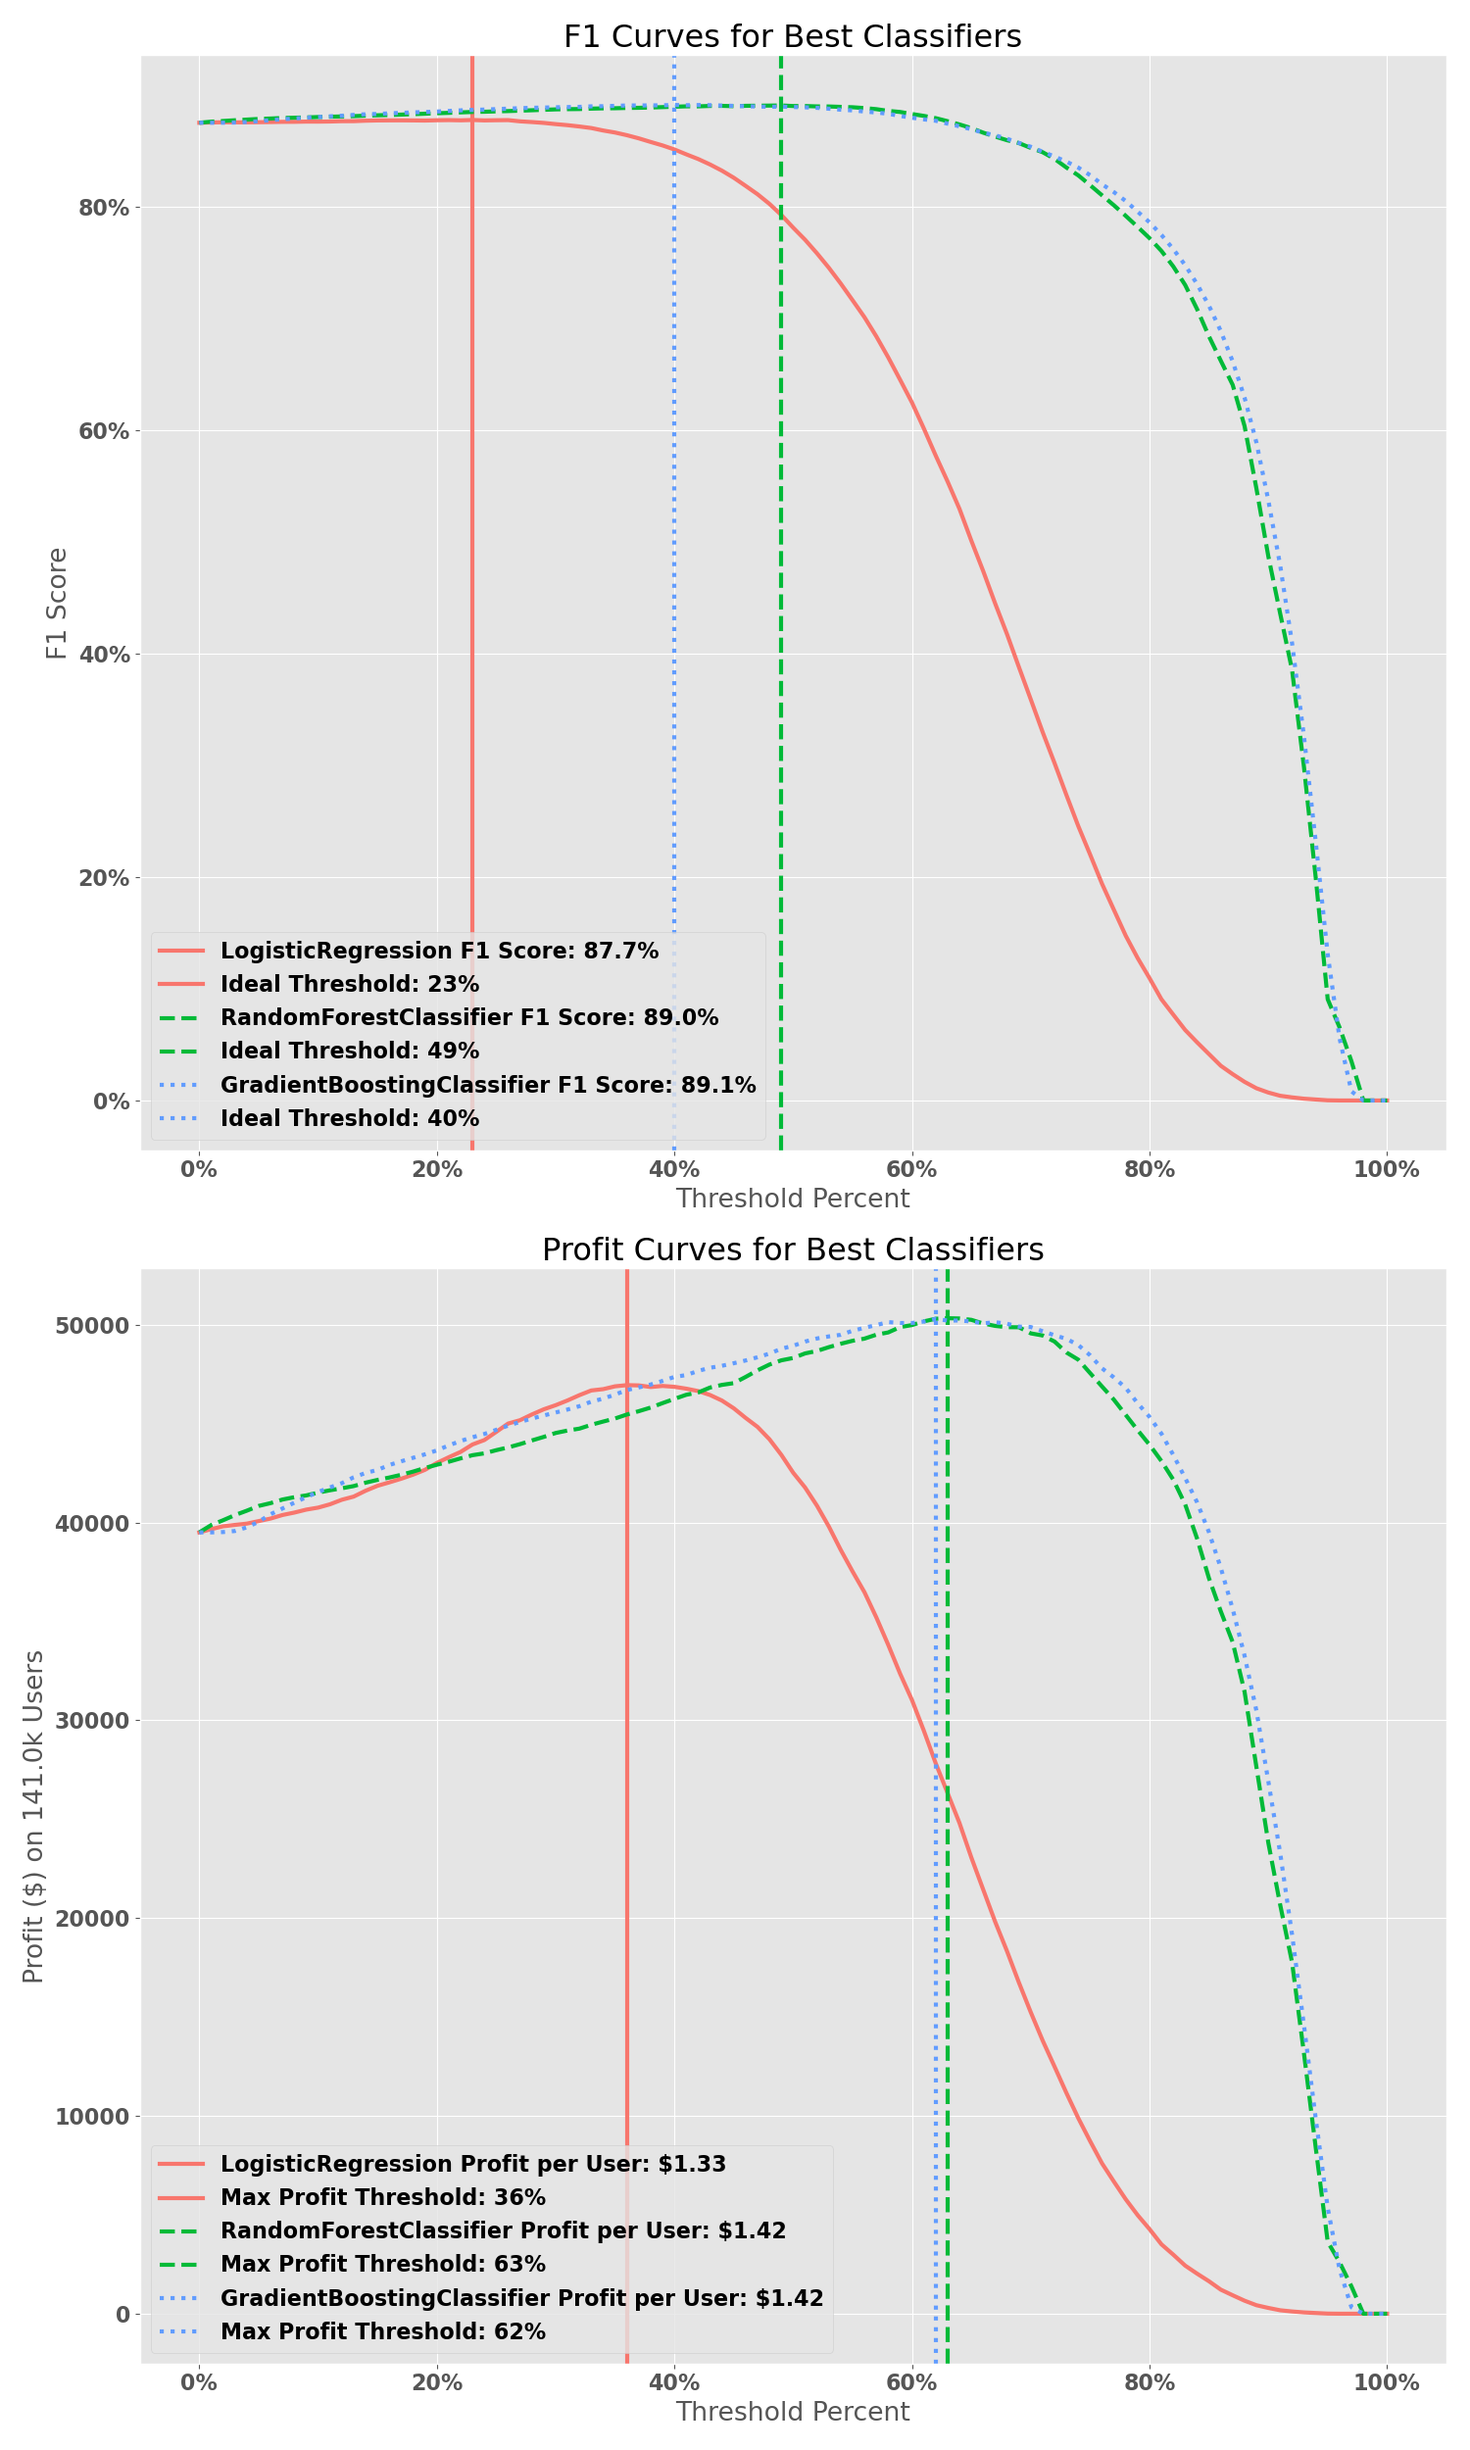
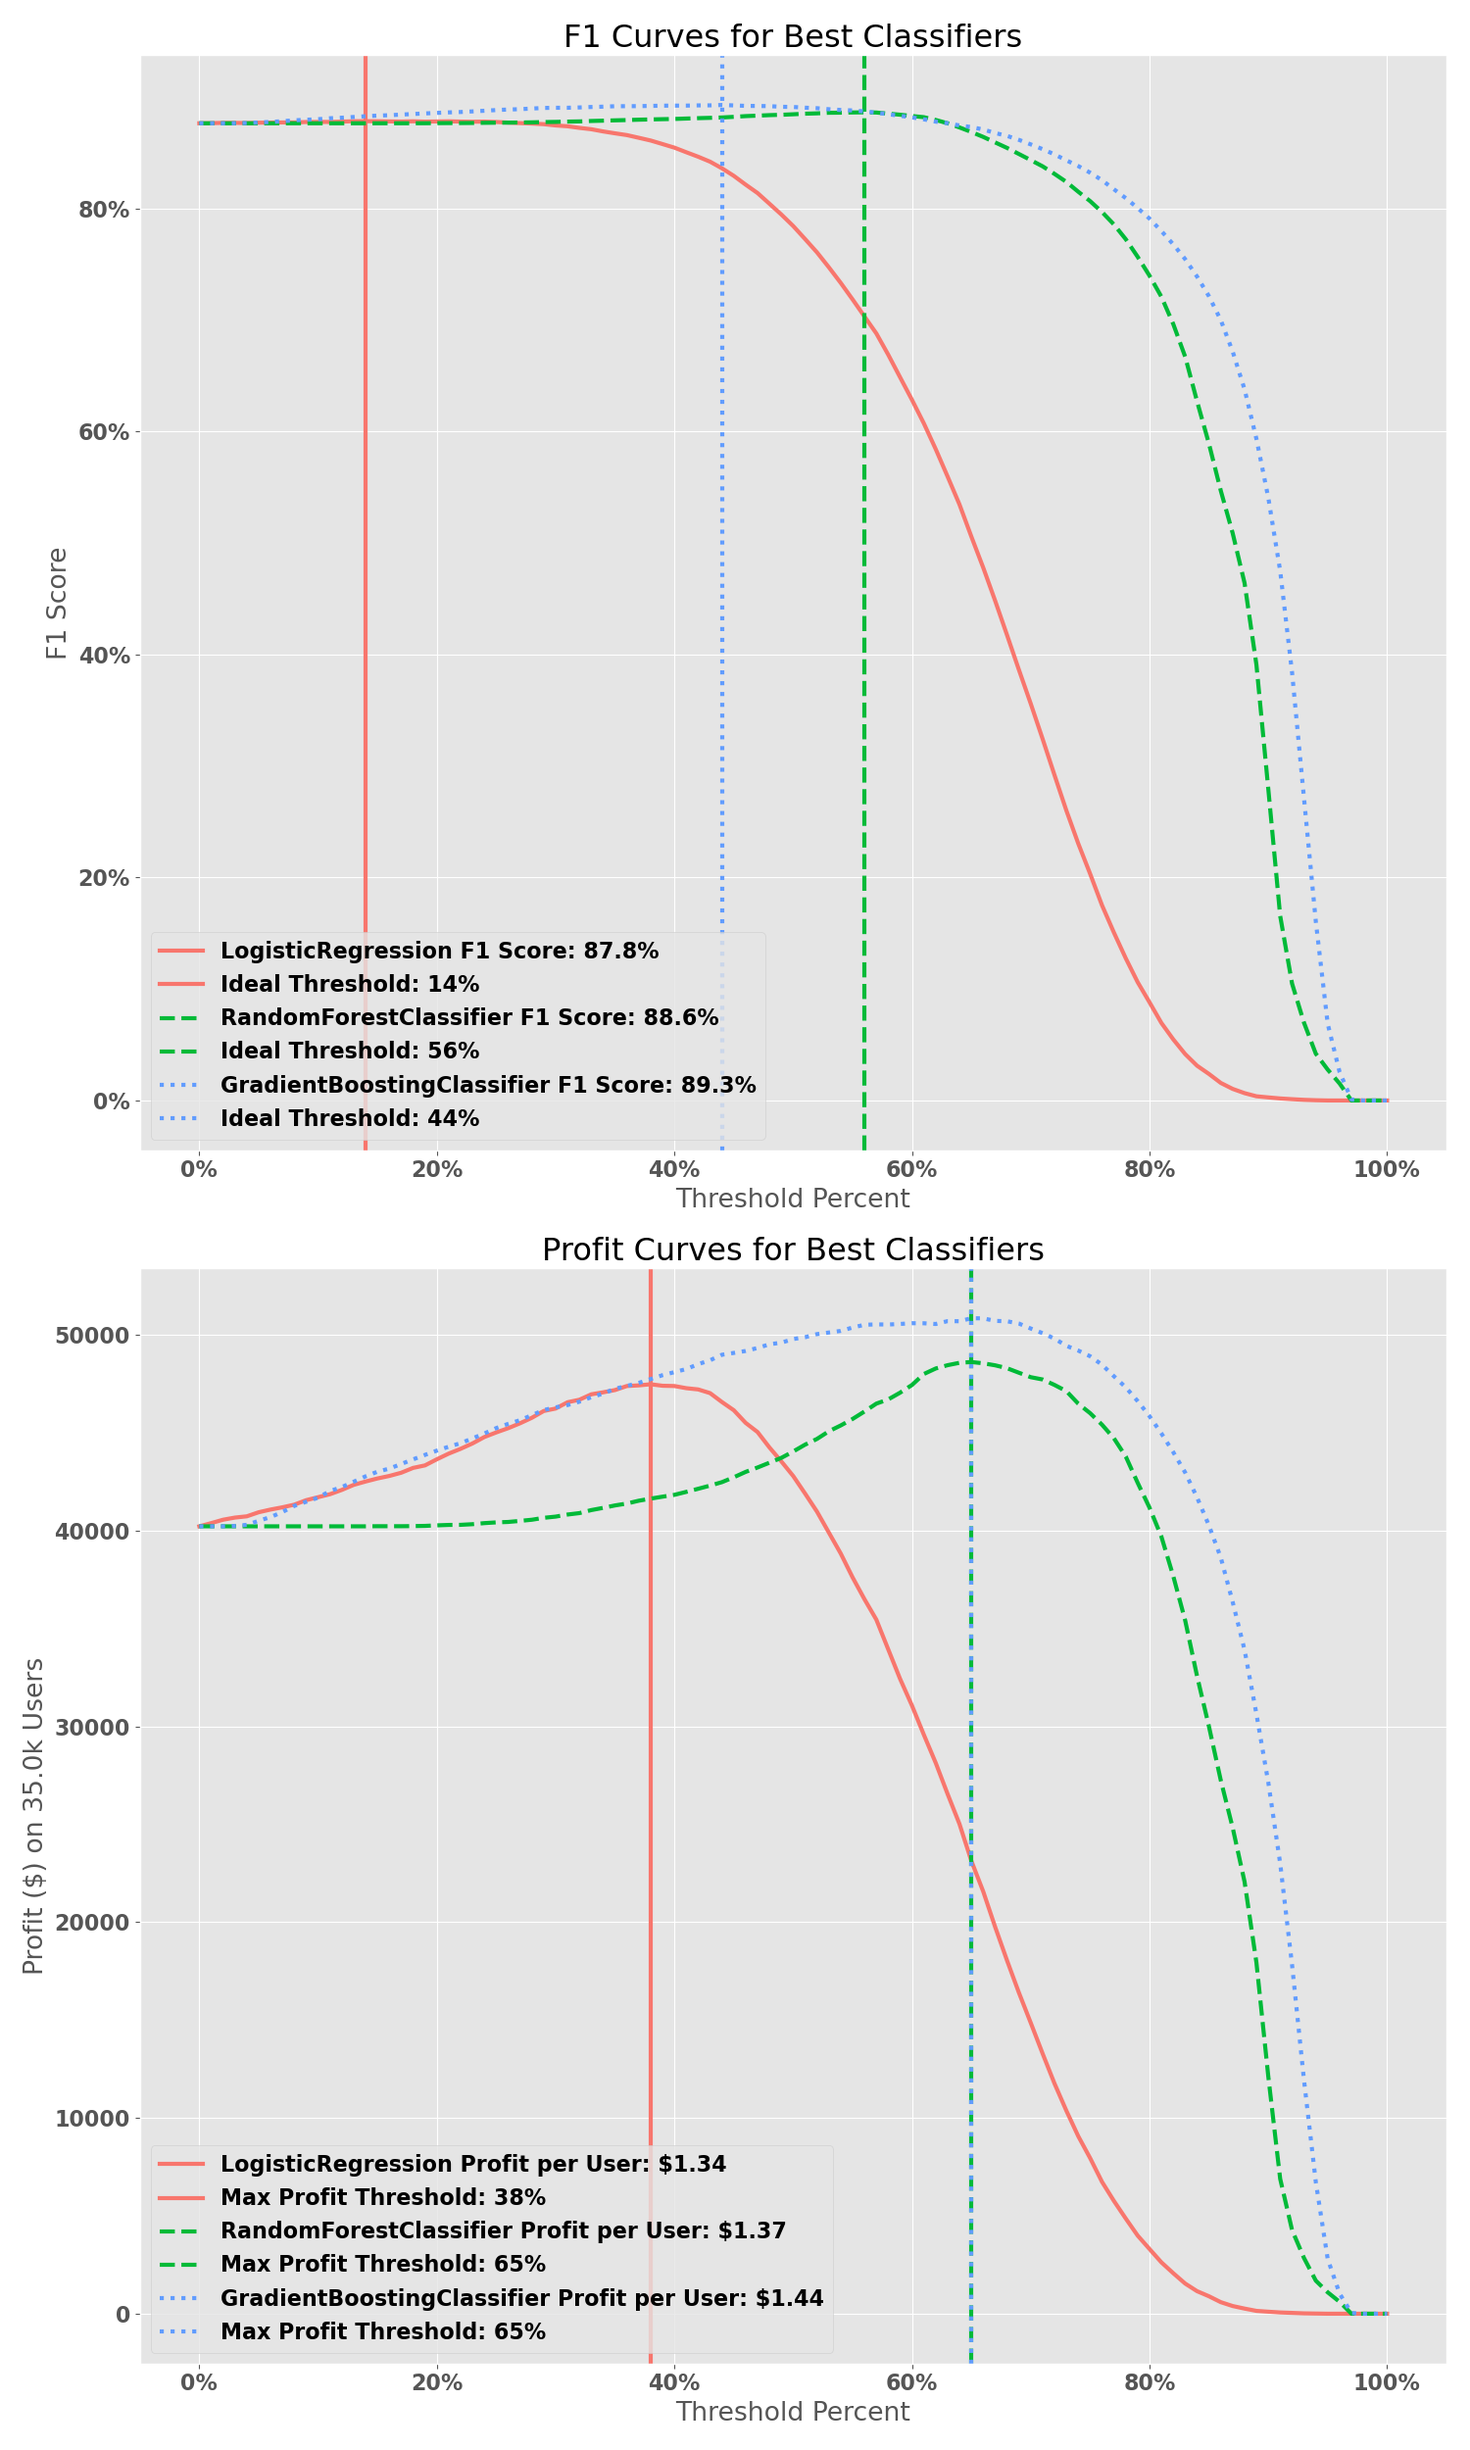
updating images and final README.md

diff --git a/src/train_test.py b/src/train_test.py
@@ -139,7 +139,7 @@ class Churn_Model(object):
         
         return threshold_list, profit_list
 
-    def plot_profit_curve(self, ax, plot_kwargs={}, tp_cost=8.42, fp_cost=-5.43):
+    def plot_profit_curve(self, ax, plot_kwargs={}, tp_cost=1.00, fp_cost=-1.00):
         """ Plots the Profit Curve for a classifier given an ax and plot_kwargs
         Args:
             ax (matplotlib axis): The axis to plot the best classifier's F1 score curve.
@@ -153,7 +153,7 @@ class Churn_Model(object):
         """
         x_axis, y_axis = self.calc_profit_curve(tp_cost, fp_cost)
 
-        max_profit = max(y_axis) / len(self.X_test)
+        max_profit = max(y_axis) / len(self.y_test)
         max_profit_line = x_axis[y_axis.index(max(y_axis))]
     
         ax.plot(x_axis, y_axis, label=f"{self.classifier_name} Profit per User: ${max_profit:.2f}", **plot_kwargs)
@@ -268,7 +268,7 @@ if __name__ == '__main__':
 
     lr_plot_kwargs = {'linestyle':'-', 'linewidth': 3, 'color': '#F8766D'}
     rf_plot_kwargs = {'linestyle':'--', 'linewidth': 3, 'color': '#00BA38'}
-    gb_plot_kwargs = {'linestyle':'--', 'linewidth': 3, 'color': '#00BA38'}
+    gb_plot_kwargs = {'linestyle':':', 'linewidth': 3, 'color': '#619CFF'}
     
     classifiers = [lr_model, rf_model, gb_model]
     classifier_plot_kwargs = [lr_plot_kwargs, rf_plot_kwargs, gb_plot_kwargs]
@@ -293,7 +293,7 @@ if __name__ == '__main__':
     for classifier, kwargs in zip(classifiers, classifier_plot_kwargs):
         
         classifier.plot_f1_curve(axs[0], kwargs)             
-        classifier.plot_profit_curve(axs[1], kwargs, tp_cost=2.99)
+        classifier.plot_profit_curve(axs[1], kwargs, tp_cost=2.99, fp_cost=-5.43)
     
     axs[0].legend(loc='lower left')
     axs[0].set_title(f"F1 Curves for Best Classifiers")                                                                    
@@ -305,7 +305,7 @@ if __name__ == '__main__':
     axs[1].legend(loc='lower left')
     axs[1].set_title("Profit Curves for Best Classifiers")                                                                    
     axs[1].set_xlabel(f"Threshold Percent")
-    axs[1].set_ylabel(f"Profit ($) on {round(len(split_data[2])/1000,0)}k Users")
+    axs[1].set_ylabel(f"Profit ($) on {round(len(split_data[3])/1000,0)}k Users")
     axs[1].xaxis.set_major_formatter(PercentFormatter(xmax=1.0))
     
     plt.tight_layout()

diff --git a/README.md b/README.md
@@ -71,7 +71,7 @@ Looking at the percent of active and churned users by City, you can see that on 
 Next, I wanted to see if changing the number of days before we considered a user as churned helped create separation between the two classes. While I initially set the number of days to 30, I also looked at 60 and 90 days. The ROC-AUC scores for their best performing models are listed in the table below:
 
 | Best Classifier     |   30 Days  | 60 Days    | 90 Days    |
-|---------------------|------------|------------|------------|
+|--------------------:|:----------:|:----------:|:----------:|
 | Logistic Regression | 0.724      | 0.726      | 0.733      |
 | Random Forest       | 0.776      | 0.764      | 0.768      |
 | Gradient Boosting   | 0.786      | 0.776      | 0.790      |
@@ -165,81 +165,98 @@ My first step in determining the best classifier to use was to iterate through v
     </tbody>
 </table>
 
-After finding the optimal hyperparameters for my Logistic Regression classifier, I took the results from the best model of predicting the probability of the positive class and added it to my features for training the Random Forest and Gradient Boosting classifiers.
+After finding the optimal hyperparameters for my Logistic Regression classifier, I took the results from the best model and predicted the probability of the positive class for each data point. Then I added those probabilities to my features for training the Random Forest and Gradient Boosting classifiers.
 
 I decided to use the ROC AUC score to compare my models and plotted each one against the other. My best model used the Gradient Boosting classifier and achieved an AUC score of 0.78 on unseen data.
 
 ![ROC Curve](images/original_roc_curves.png)
 
-Next, I wanted to look at which features contributed most to my best model by comparing their feature importances. On the left side of the table are my feature importances using the original dataset. After looking at these and comparing them to the KDE plots, I realized it might not matter what rating you give a meal or driver so much as IF you gave either a rating. I re-engineered my features to change ratings from int/float to booleans and re-ran the feature importances, also removing less important features like City Group, Subscription User, First Order Delivered On-Time, and Foreign User.
+Next, I wanted to look at which features contributed most to my best model by comparing their feature importances. On the left side of the table are my feature importances using the original dataset. After looking at these and comparing them to the KDE plots, I realized it might not matter what rating you give a meal or driver so much as *if* you gave either a rating. I re-engineered my features to change ratings from int/float to booleans and re-ran the feature importances, also removing less important features like City Group, Subscription User, First Order Delivered On-Time, and Foreign User.
 
 <table>
 <tr><th> Original Dataset </th> <th> Boolean Dataset </th></tr>
 <tr style="vertical-align:top"><td>
 
 | Feature                        | Importance % |
-|--------------------------------|--------------|
-| Days Since Signup | 19.8% |                    
-| First 30 Day Orders | 19.3% |
-| Signup To Order Hours | 16.8% |
-| First 30 Day Discount Percent | 6.4% |
-| First 30 Day Avg Gmv | 6.1% |
-| First Order Payment | 4.5% |
-| First Order Gmv | 4.2% |
-| First Order Discount Percent | 4.0% |
-| City Name | 3.8% |
-| First Order Discount Amount | 3.8% |
-| First 30 Day Avg Meal Rating | 2.2% |
-| Acquisition Subcategory | 1.5% |
-| First Order Hours Late | 1.5% |
-| First Order Meal Reviews | 1.2% |
-| Language | 0.9% |
-| Acquisition Category | 0.8% |
-| First Order Avg Meal Rating | 0.6% |
-| Foreign User | 0.6% |
-| First 30 Day Avg Driver Rating | 0.5% |
-| First 30 Day Subscription User | 0.4% |
-| City Group | 0.4% |
-| First Order Driver Rating | 0.3% |
-| First Order Median Meal Rating | 0.2% |
-| First Order Delivered On Time | 0.1% |
+|-------------------------------:|:------------:|
+| Lr Predictions | 29.7% |
+| Days Since Signup | 19.1% |
+| First 30 Day Orders | 19.0% |
+| Signup To Order Hours | 9.8% |
+| First 30 Day Avg Meal Rating | 5.1% |
+| First 30 Day Discount Percent | 3.0% |
+| City Name | 2.5% |
+| First 30 Day Support Messages | 2.5% |
+| First 30 Day Avg Gmv | 2.1% |
+| First 30 Day Subscription User | 1.5% |
+| First Order Gmv | 1.1% |
+| Acquisition Channel | 1.1% |
+| First 30 Day Avg Driver Tips | 1.0% |
+| First Order Discount Percent | 0.8% |
+| First Order Driver Tips | 0.6% |
+| First Order Meal Reviews | 0.6% |
+| First Order Avg Meal Rating | 0.2% |
+| First Order Hours Late | 0.1% |
+| First 30 Day Avg Driver Rating | 0.1% |
+| First Order Driver Rating | 0.1% |
+| First Order Delivered On Time | 0.0% |
         
 </td><td>
 
 | Feature                        | Importance % |
-|--------------------------------|--------------|
-| Days Since Signup | 22.0% |
-| First 30 Day Orders | 20.0% |
-| Signup To Order Hours | 18.1% |
-| First 30 Day Discount Percent | 7.4% |
-| First 30 Day Avg Gmv | 7.3% |
-| First Order Gmv | 6.7% |
-| First Order Discount Percent | 6.4% |
-| City Name | 4.7% |
-| Acquisition Subcategory | 2.2% |
-| First Order Hours Late | 1.7% |
-| First Order Meal Reviews | 1.5% |
-| Has First 30 Day Meal Rating | 0.6% |
-| Has First 30 Day Support Interaction | 0.6% |
-| Has First 30 Day Driver Rating | 0.3% |
-| Has First Order Driver Rating | 0.3% |
-| Has First Order Avg Meal Rating | 0.2% |
+|-------------------------------:|:------------:|
+| Lr Predictions | 45.2% |
+| Days Since Signup | 18.1% |
+| Signup To Order Hours | 12.8% |
+| First 30 Day Orders | 9.7% |
+| City Name | 2.4% |
+| First 30 Day Discount Percent | 2.4% |
+| First Order Discount Percent | 2.2% |
+| First 30 Day Avg Gmv | 1.8% |
+| First Order Gmv | 1.7% |
+| First 30 Day Support Messages | 1.2% |
+| Acquisition Channel | 0.7% |
+| First Order Meal Reviews | 0.5% |
+| Has First 30 Day Meal Rating | 0.5% |
+| First Order Hours Late | 0.4% |
+| Has First Order Avg Meal Rating | 0.1% |
+| Has First Order Driver Rating | 0.1% |
+| Has First 30 Day Driver Rating | 0.1% |
+| Has First Order Driver Tips | 0.1% |
 | Has First 30 Day Driver Tips | 0.1% |
-| Has First Order Driver Tips | 0.0% |
         
 </td></tr>
 </table>
 
-Overall, using this Boolean feature set instead of my original one, I was able to drop 6 features and convert 6 others to boolean values while still maintaining a 0.78 AUC ROC score.
+Overall, using this Boolean feature set instead of my original one, I was able to drop 2 features and convert 6 others to boolean values without losing any predictive capabilities.
+
+The best model was Gradient Boosting Classifier with the following hyperparameters:
+```python
+subsample=0.75
+n_estimators=10
+min_samples_leaf=1
+max_features=None
+max_depth=8
+learning_rate=0.25
+```
 
 ## Model and Threshold Selection
 
 Now that I had my best model for predicting the probability that a user will churn, I wanted to see what threshold for probability is optimal to determine our positive and negative class. In order to do this, I used an F1 score which balances the importance of a False Positive and a False Negative as well as a Profit Curve which takes into account the cost of predicting True Positives and False Positives.
 
-![F1 Score and Profit Curve](images/original_profit_and_f1_curves.png)
+![F1 Score and Profit Curve](images/boolean_profit_and_f1_curves.png)
+
+For my true positive cost, I calculated the Lifetime Value (LTV) of a user in Company X and subtracted the amount of LTV they accrue in the first 30 days. This came out to $2.99. 
+
+For the false positive cost, I looked at the average amount of promotion redeemed per order for all orders. This came out to -$5.43. 
+
+Using those two values I calculated the profit for each threshold between 0% and 100% and found the max profit for my best model was 65%. This is the value I should use to evaluate whether or not a user will churn.
 
 ## Conclusions
+Overall, I am happy with the results of my model but would have liked to get more predicitive power out of it (my original goal was > 80%). The next step will be using this model to predict churn for new users in Company X so that they can target different cohorts with promotions to try and reduce the churn they have been seeing recently.
 
 ### Lessons Learned
+* Tuning models is hard! You can try to run several different options, change/add/remove features, and play with the hyperparameters only to see a 0.1 point increase.
 
 ## Future Work
+For my next capstone, I would like to have this model run on a regular frequency and update / create predictions for each user. Then I could store those predictions in Company X's database so the marketing and business intelligence teams can query them on demand and make cohorts based off the churn probabilities.
